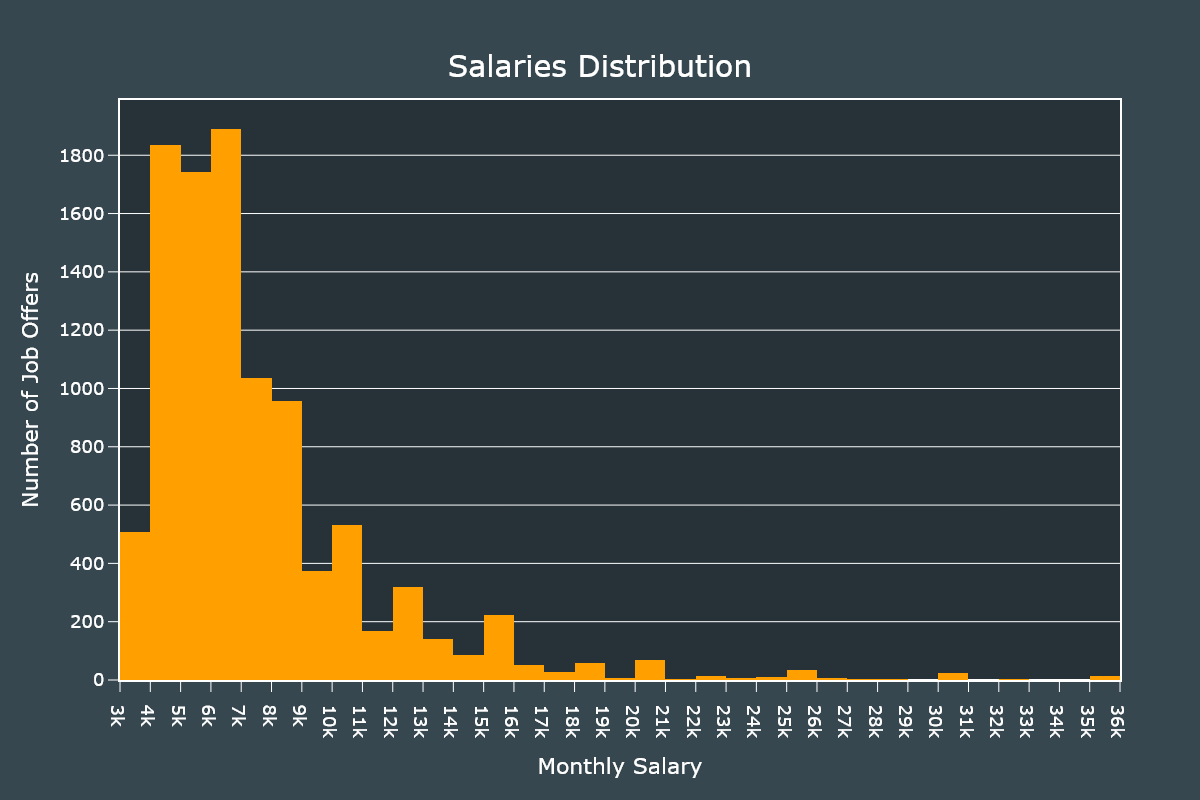
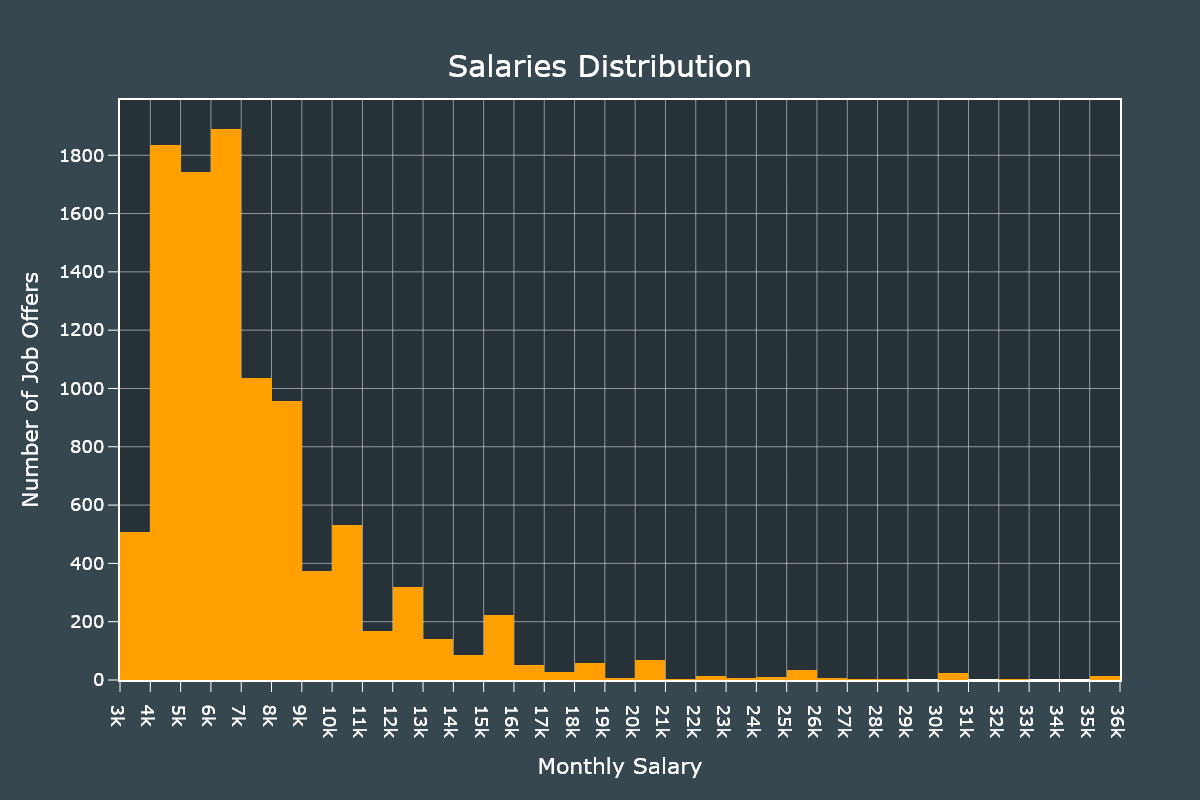
Added infographics.

diff --git a/scripts/step3.py b/scripts/step3.py
@@ -41,10 +41,10 @@ def days_stats(df):
     fig.add_traces(go.Scatter(x=monday_df.index, y=monday_df.values,
                               line_color="#c6ff00", mode="markers", marker_size=18))
 
-    fig.update_xaxes(title="Date (2020)", ticks="outside", ticklen=10,
+    fig.update_xaxes(title="Date (2020)", ticks="outside", ticklen=10, gridwidth=0.5,
                      tickcolor="#FFFFFF", linewidth=2, showline=True, mirror=True, nticks=12)
 
-    fig.update_yaxes(title="Number of Job Offers", ticks="outside", ticklen=10,
+    fig.update_yaxes(title="Number of Job Offers", ticks="outside", ticklen=10, gridwidth=0.5,
                      tickcolor="#FFFFFF", linewidth=2, showline=True, mirror=True, nticks=12)
 
     # Add final customizations.
@@ -86,10 +86,10 @@ def salaries_stats(df):
     fig.add_traces(go.Histogram(
         x=salaries["salary"], nbinsx=35, marker_color="#ffa000"))
 
-    fig.update_xaxes(title="Monthly Salary", ticks="outside", ticklen=10, showgrid=False,
+    fig.update_xaxes(title="Monthly Salary", ticks="outside", ticklen=10, gridwidth=0.5,
                      tickcolor="#FFFFFF", linewidth=2, showline=True, mirror=True, nticks=35, title_standoff=20)
 
-    fig.update_yaxes(title="Number of Job Offers", ticks="outside", ticklen=10,
+    fig.update_yaxes(title="Number of Job Offers", ticks="outside", ticklen=10, gridwidth=0.5,
                      tickcolor="#FFFFFF", linewidth=2, showline=True, mirror=True, nticks=12, title_standoff=5)
 
     # Add final customizations.

diff --git a/README.md b/README.md
@@ -302,10 +302,10 @@ fig.add_traces(go.Scatter(x=monday_df.index, y=monday_df.values,
                             line_color="#c6ff00", mode="markers", marker_size=18))
 
 fig.update_xaxes(title="Date (2020)", ticks="outside", ticklen=10,
-                    tickcolor="#FFFFFF", linewidth=2, showline=True, mirror=True, nticks=12)
+                    tickcolor="#FFFFFF", linewidth=2, gridwidth=0.5, showline=True, mirror=True, nticks=12)
 
 fig.update_yaxes(title="Number of Job Offers", ticks="outside", ticklen=10,
-                    tickcolor="#FFFFFF", linewidth=2, showline=True, mirror=True, nticks=12)
+                    tickcolor="#FFFFFF", linewidth=2, gridwidth=0.5, showline=True, mirror=True, nticks=12)
 ```
 
 We add final customizations.
@@ -456,11 +456,11 @@ We add final customizations.
 
 ```python
 
-fig.update_xaxes(title="Monthly Salary", ticks="outside", ticklen=10, showgrid=False,
+fig.update_xaxes(title="Monthly Salary", ticks="outside", ticklen=10, gridwidth=0.5,
                     tickcolor="#FFFFFF", linewidth=2, showline=True, mirror=True, nticks=35, title_standoff=20)
 
 fig.update_yaxes(title="Number of Job Offers", ticks="outside", ticklen=10,
-                    tickcolor="#FFFFFF", linewidth=2, showline=True, mirror=True, nticks=12, title_standoff=5)
+                    tickcolor="#FFFFFF", linewidth=2, gridwidth=0.5, showline=True, mirror=True, nticks=12, title_standoff=5)
 ```
 
 We add final customizations.
@@ -797,3 +797,5 @@ I really liked `Plotly`, it has a ton of customizations and once you get the han
 For the job offers, the situation is very grim. When I did this project in 2018 I collected around 36,000 job offers. This time I only collected 10,000 and that was with the help of secondary scripts to fix all the issues.
 
 There are some fields I didn't covered in this article but you are always free to study the dataset.
+
+[![Become a Patron!](https://c5.patreon.com/external/logo/become_a_patron_button.png)](https://www.patreon.com/bePatron?u=20521425)
